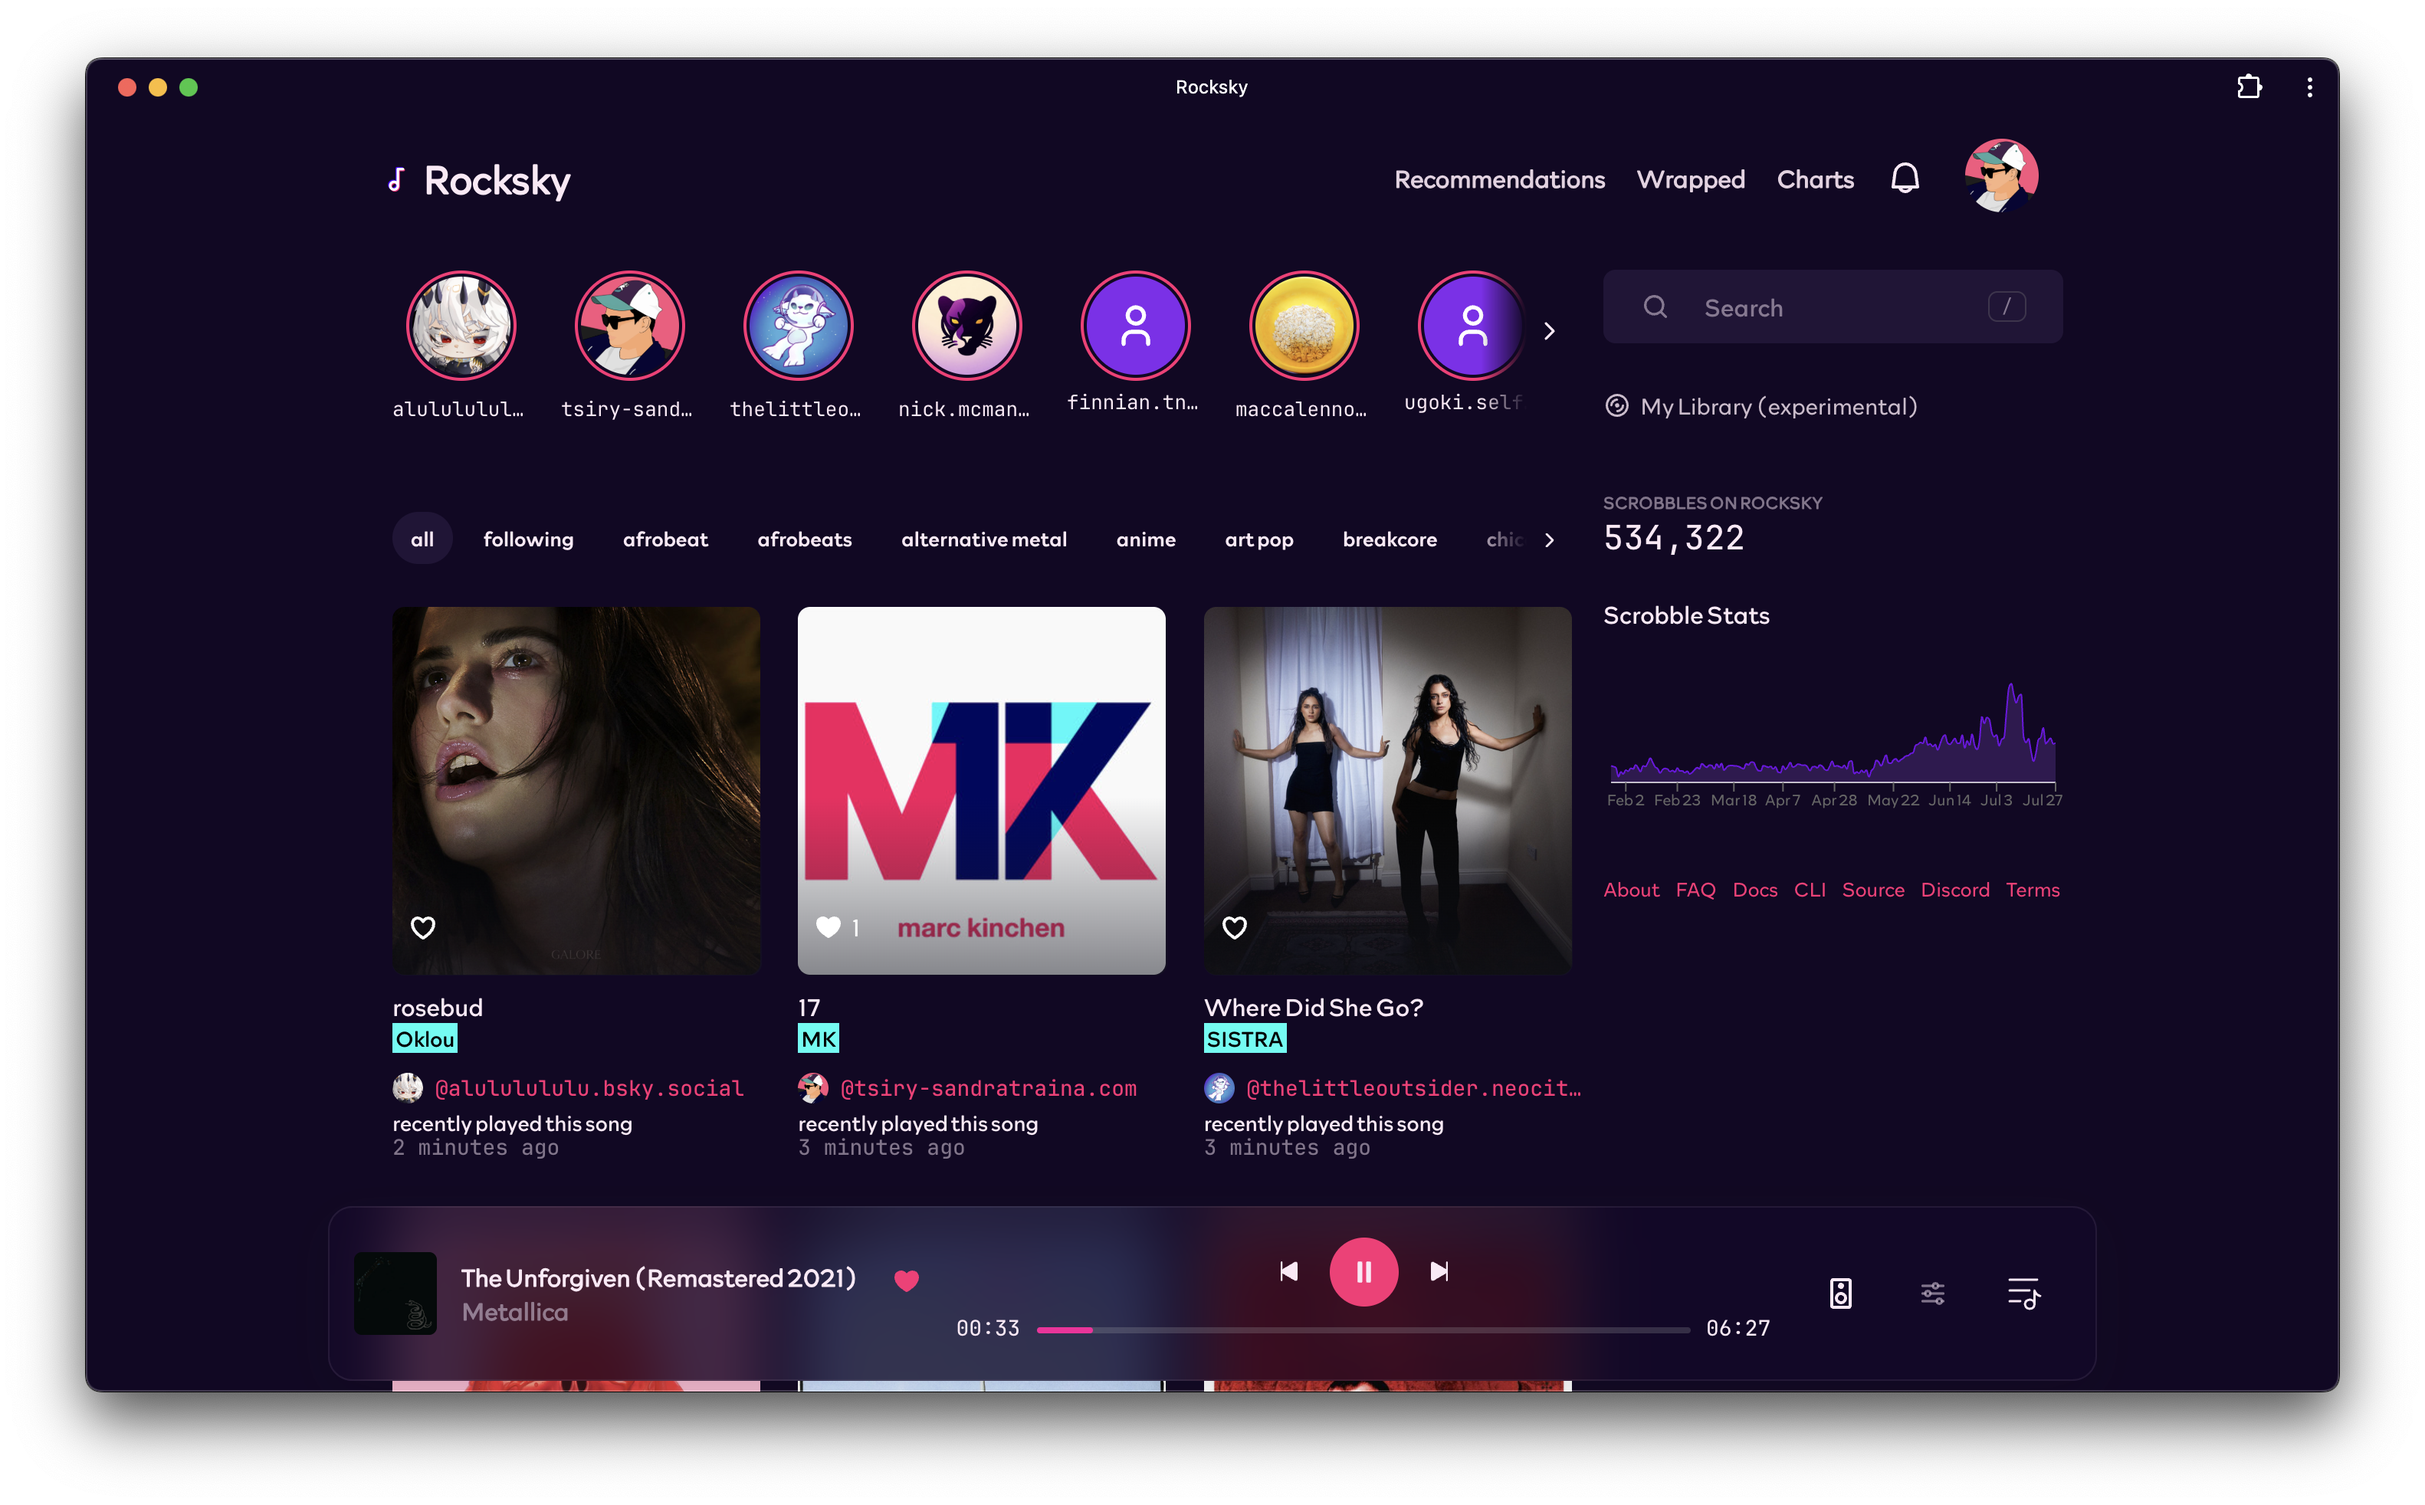
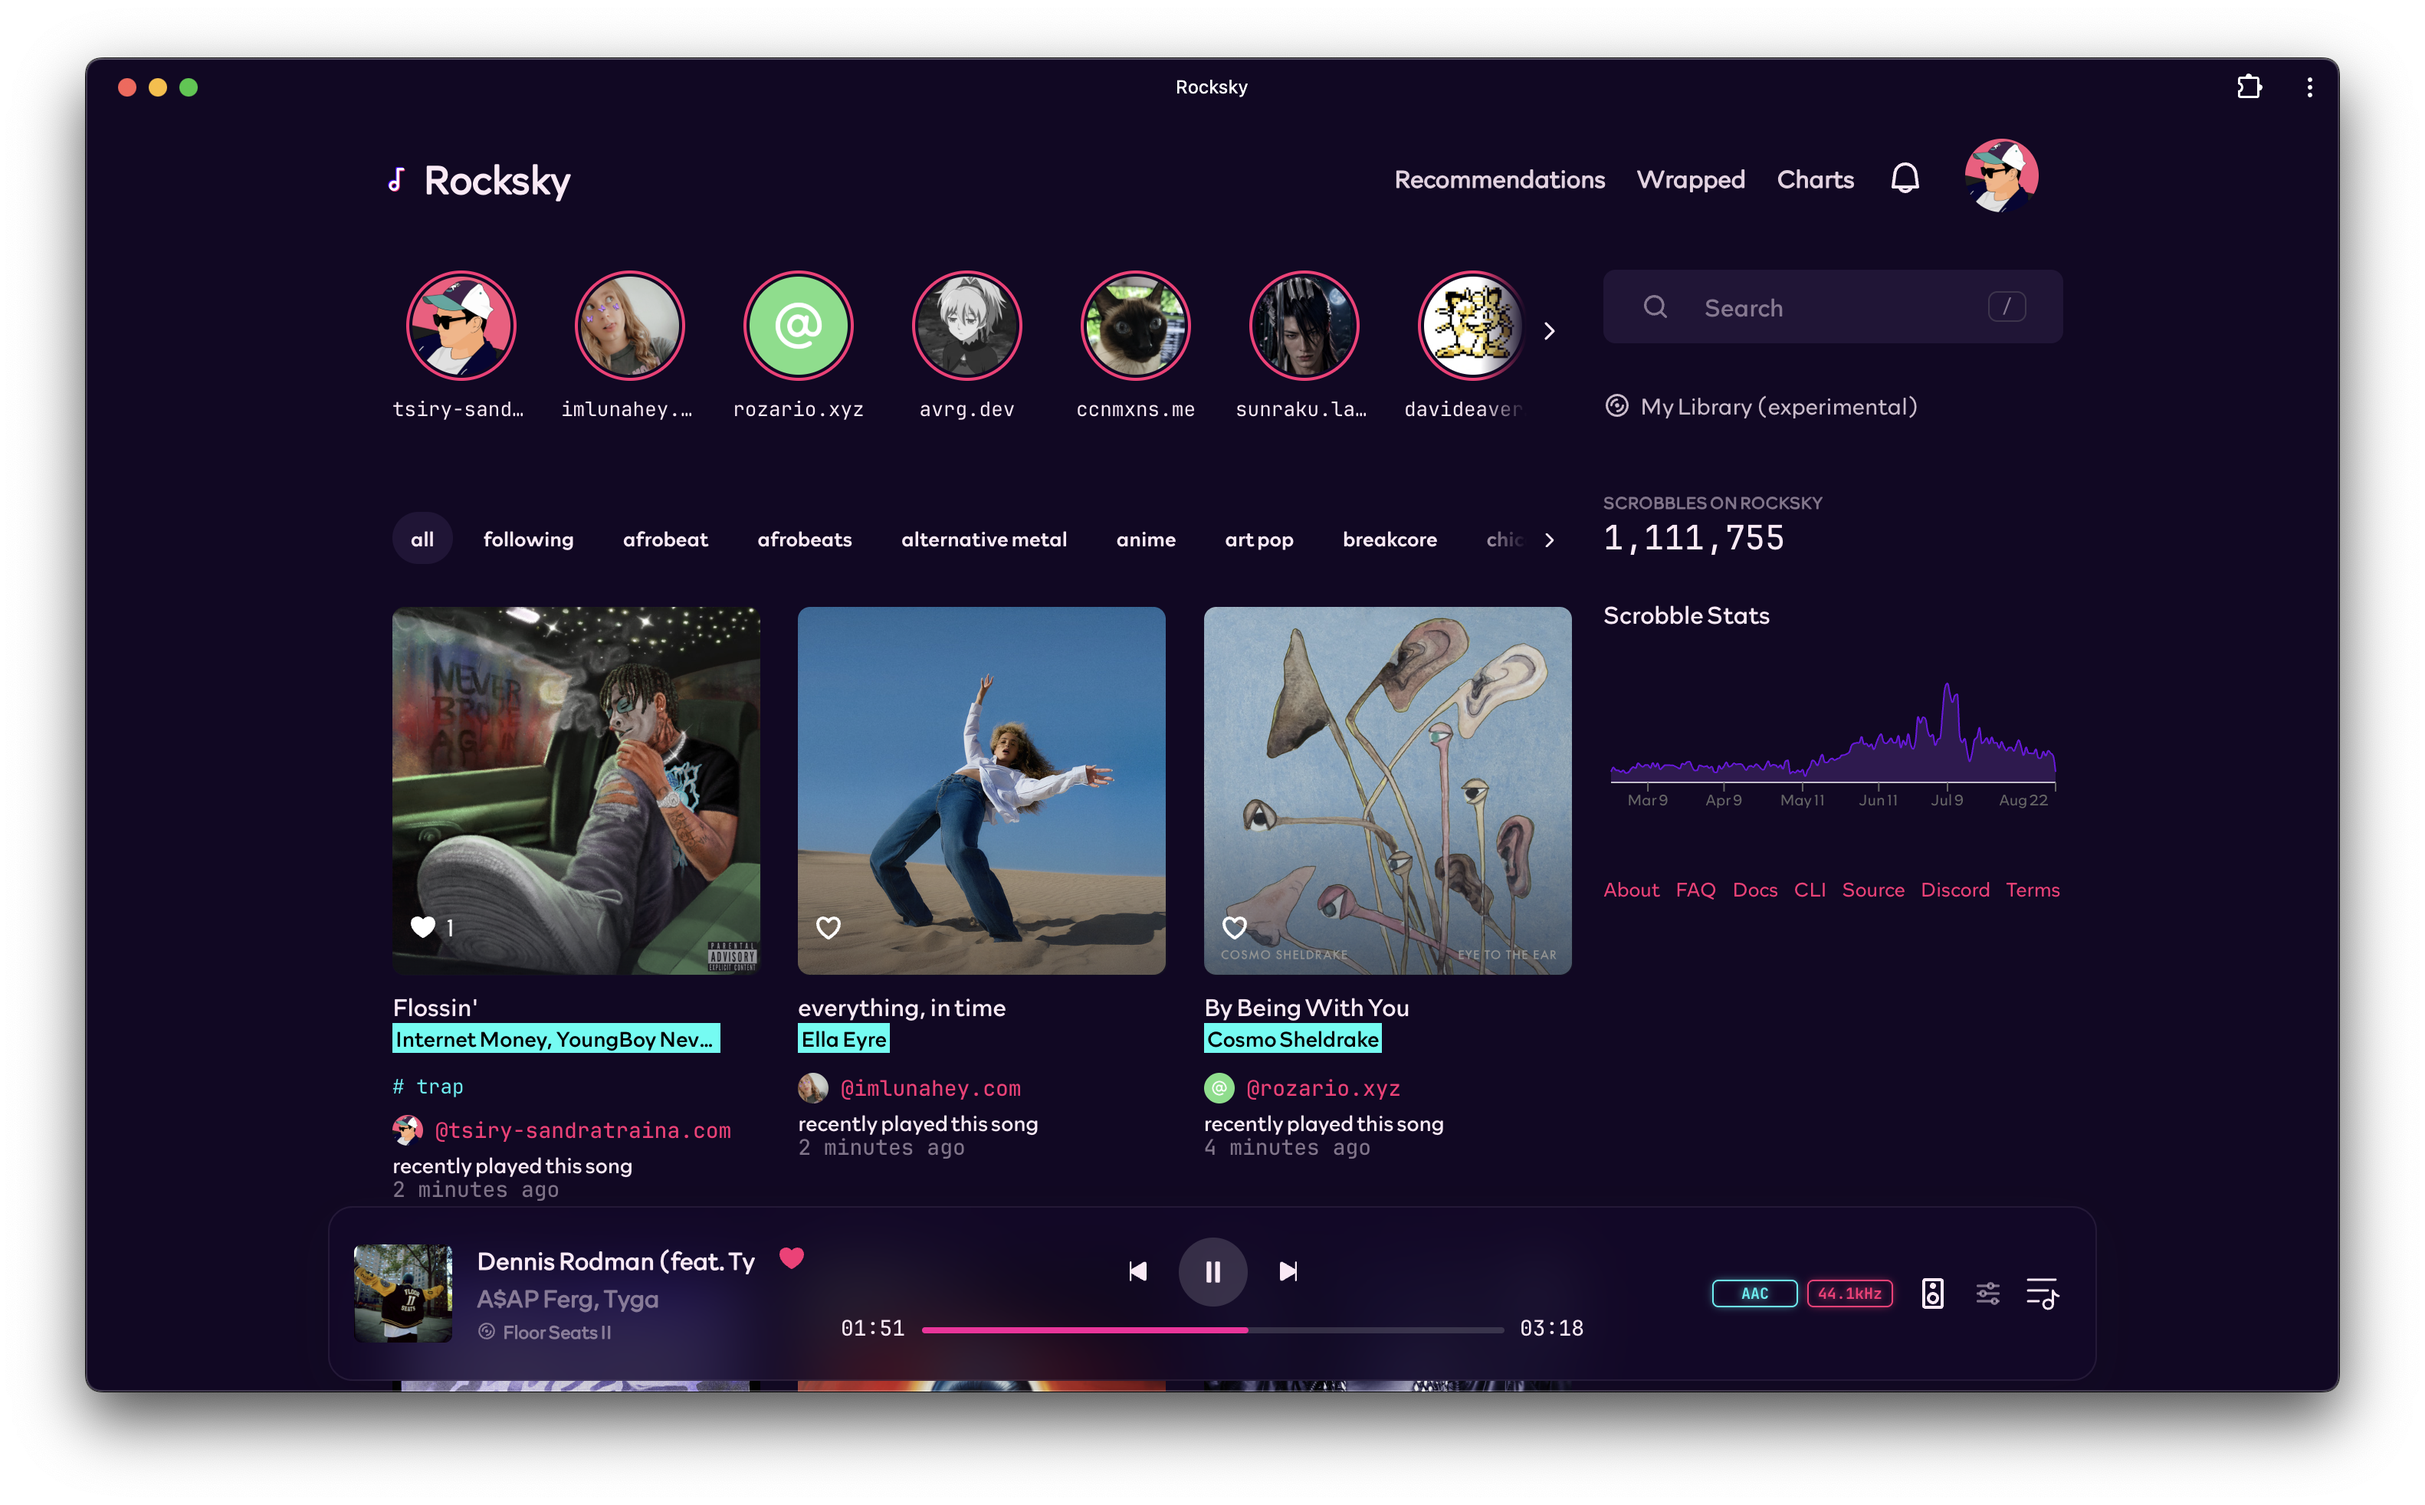
fix miniplayer issue

diff --git a/apps/web/src/components/StickyPlayer/StrickyPlayer.tsx b/apps/web/src/components/StickyPlayer/StrickyPlayer.tsx
@@ -134,10 +134,18 @@ const Link = styled(DefaultLink)`
 // 44.1kHz). Fixed neon colors on purpose — they read as "signal lights" in
 // both themes and match the always-dark fullscreen bar.
 const NeonBadge = styled.span<{ neon: string }>`
+  /* inline-flex + centering + a shared min-width so both chips (e.g. "MP3"
+     and "44.1kHz") render as uniform, center-aligned badges. No
+     letter-spacing: it adds trailing space after the last glyph, which
+     skews the text off-center inside the chip. */
+  display: inline-flex;
+  align-items: center;
+  justify-content: center;
+  min-width: 56px;
+  box-sizing: border-box;
   font-family: var(--font-mono);
   font-size: 10px;
   font-weight: 600;
-  letter-spacing: 0.5px;
   line-height: 1;
   padding: 3px 6px;
   border-radius: 4px;
@@ -154,7 +162,10 @@ const Badges = styled.div`
   display: flex;
   align-items: center;
   gap: 6px;
-  margin-right: 12px;
+  /* 8px + the icon buttons' ~7px internal inset ≈ the same visual gap as
+     between two adjacent icon buttons, so the whole right cluster
+     (badges · device · EQ · queue) reads as evenly spaced. */
+  margin-right: 8px;
 `;
 
 // "MPEG 1 Layer 3" / "mp3" → "MP3", "FLAC" stays "FLAC", unknown strings are
@@ -279,6 +290,13 @@ function StickyPlayer(props: StickyPlayerProps) {
   const progressbarRef = useRef<HTMLDivElement>(null);
   const { formatTime } = useTimeFormat();
 
+  // In the fullscreen player the overlay sits above the whole app, so a
+  // title/artist/album link would navigate invisibly underneath it. Close the
+  // overlay on click and let the Link perform the navigation.
+  const exitFullscreenOnNavigate = fullscreenOpen
+    ? () => onExitFullscreen?.()
+    : undefined;
+
   // eslint-disable-next-line @typescript-eslint/no-explicit-any
   const handleSeek = (e: any) => {
     if (progressbarRef.current) {
@@ -329,7 +347,11 @@ function StickyPlayer(props: StickyPlayerProps) {
                   {(() => {
                     const songPath = atUriToPath(nowPlaying?.songUri);
                     return songPath ? (
-                      <Link to={songPath} style={{ fontWeight: 600 }}>
+                      <Link
+                        to={songPath}
+                        style={{ fontWeight: 600 }}
+                        onClick={exitFullscreenOnNavigate}
+                      >
                         {nowPlaying?.title}
                       </Link>
                     ) : (
@@ -364,6 +386,7 @@ function StickyPlayer(props: StickyPlayerProps) {
                       fontWeight: 600,
                     }}
                     className={embedded ? "!text-[rgba(255,255,255,0.7)]" : "!text-[var(--color-text-muted)]"}
+                    onClick={exitFullscreenOnNavigate}
                   >
                     {nowPlaying?.artist}
                   </Link>
@@ -400,7 +423,11 @@ function StickyPlayer(props: StickyPlayerProps) {
                     </span>
                   );
                   return albumPath ? (
-                    <Link to={albumPath} className={linkClass}>
+                    <Link
+                      to={albumPath}
+                      className={linkClass}
+                      onClick={exitFullscreenOnNavigate}
+                    >
                       {inner}
                     </Link>
                   ) : (
@@ -531,7 +558,7 @@ function StickyPlayer(props: StickyPlayerProps) {
               style={{
                 backgroundColor: "transparent",
                 color: embedded ? "#fff" : "var(--color-text)",
-                padding: "0 8px",
+                padding: 0,
               }}
             >
               <IconAdjustmentsHorizontal

diff --git a/apps/web/src/components/StickyPlayer/styles.ts b/apps/web/src/components/StickyPlayer/styles.ts
@@ -56,7 +56,7 @@ export const Button = styled.button<{ disabled?: boolean }>`
   display: flex;
   align-items: center;
   justify-content: center;
-  width: 60px;
+  width: 36px;
   cursor: pointer;
   border: none;
   background-color: transparent;
